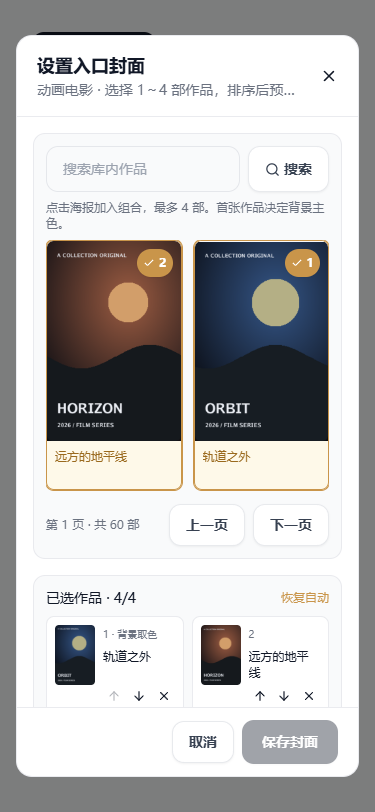
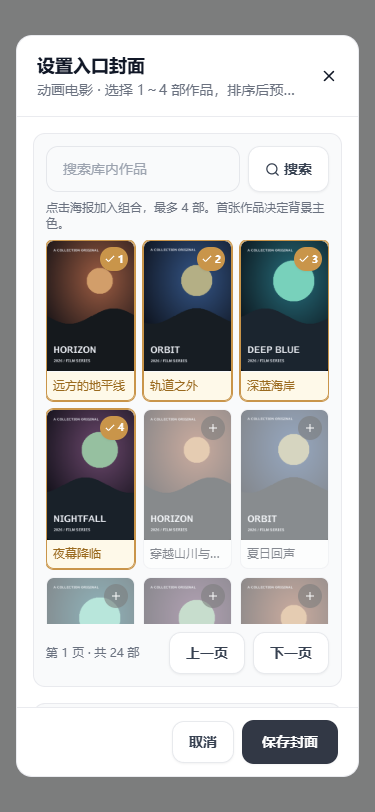
ui: show more posters in library cover picker

diff --git a/web/src/components/LibraryCoverDialog.tsx b/web/src/components/LibraryCoverDialog.tsx
@@ -124,19 +124,19 @@ export function LibraryCoverDialog({ library, onClose }: Props) {
               <button type="submit" className="btn-outline shrink-0 gap-1" disabled={loading}><Search size={15} />搜索</button>
             </form>
             <p className="py-2 text-xs text-[var(--app-muted)]">点击海报加入组合，最多 4 部。首张作品决定背景主色。</p>
-            <div className="max-h-64 min-h-[120px] flex-1 overflow-y-auto md:max-h-none" aria-busy={loading}>
+            <div className="max-h-96 min-h-[120px] flex-1 overflow-y-auto md:max-h-none" aria-busy={loading}>
               {loading ? <p className="p-4 text-sm text-[var(--app-muted)]">正在加载作品…</p> : browseError ? (
                 <div className="p-3 text-sm"><p role="alert">{browseError}</p><button className="btn-outline mt-2" onClick={() => setFilter({ ...filter })}>重试</button></div>
-              ) : candidates.length === 0 ? <p className="p-4 text-sm text-[var(--app-muted)]">没有找到作品。</p> : <div className="grid grid-cols-2 gap-3 sm:grid-cols-4 md:grid-cols-2 lg:grid-cols-3">
+              ) : candidates.length === 0 ? <p className="p-4 text-sm text-[var(--app-muted)]">没有找到作品。</p> : <div className="grid grid-cols-3 gap-2 sm:grid-cols-5 md:grid-cols-3 lg:grid-cols-5">
                 {candidates.map((item) => {
                   const index = selected.findIndex((choice) => choice.id === item.id)
                   const picked = index >= 0
                   return <button key={item.id} type="button" aria-label={item.title} title={item.selection_error || item.title} disabled={disabled || !!item.selection_error || !item.poster_url || (!picked && selected.length >= 4)} aria-pressed={picked} onClick={() => changeSelection(picked ? selected.filter((choice) => choice.id !== item.id) : [...selected, item])} className={`min-w-0 overflow-hidden rounded-lg border text-left transition-colors disabled:opacity-50 ${picked ? 'border-brand-500 bg-[var(--app-brand-soft)] text-[var(--app-brand-text)] ring-1 ring-brand-500' : 'border-[var(--app-border)] bg-[var(--app-panel)] hover:border-brand-500/60'}`}>
                     <div className="relative aspect-[2/3] overflow-hidden bg-[var(--app-panel-soft)]">
                       <CoverPoster item={item} />
-                      {!!item.poster_url && !item.selection_error && <span className={`absolute right-2 top-2 flex h-7 min-w-7 items-center justify-center gap-1 rounded-full px-1.5 text-xs font-semibold shadow-sm ${picked ? 'bg-brand-500 text-white' : 'bg-black/60 text-white'}`} aria-hidden="true">{picked ? <><Check size={12} />{index + 1}</> : <Plus size={14} />}</span>}
+                      {!!item.poster_url && !item.selection_error && <span className={`absolute right-1.5 top-1.5 flex h-6 min-w-6 items-center justify-center gap-0.5 rounded-full px-1 text-[10px] font-semibold shadow-sm ${picked ? 'bg-brand-500 text-white' : 'bg-black/60 text-white'}`} aria-hidden="true">{picked ? <><Check size={12} />{index + 1}</> : <Plus size={12} />}</span>}
                     </div>
-                    <span className="block min-h-12 px-2 py-2 text-xs font-medium leading-4"><span className="line-clamp-2 break-words">{item.title}</span></span>
+                    <span className="block truncate px-1.5 py-1.5 text-xs font-medium leading-4">{item.title}</span>
                   </button>
                 })}
               </div>}

diff --git a/docs/library-cover-design.md b/docs/library-cover-design.md
@@ -31,6 +31,8 @@ Web 的入口缩略图请求 `/api/libraries/{id}/cover/image`，与设置页预
 
 管理员进入「管理媒体库」，展开目标库的操作菜单，点击「设置入口封面」。左侧以海报卡片展示该库的候选作品，保留标题，选中后显示顺序编号。右侧已选区显示海报缩略图、标题及上移、下移和移除按钮；第一个位置明确标注「背景取色」。可以搜索该库的作品，选择 1～4 部，生成实际 PNG 预览后保存。更改选择或顺序会使旧预览失效，重新预览成功才能保存手动组合；预览不修改数据库。点击「恢复自动」并保存，可清空手动配置。
 
+候选网格采用紧凑卡片：宽屏桌面 5 列、手机 3 列，缩小卡片间距和选中编号，并使用单行标题；长标题保留完整按钮名称和悬停提示。手机候选区的滚动高度增至 384 px。按实际组件测量，1280×800 的桌面首屏完整可见作品由 3 部增至 10 部，375×812 的手机由 2 部增至 6 部。最多选择四部和每页 48 部的原有规则保持不变。
+
 候选接口 `/api/libraries/{id}/cover/candidates` 仅管理员可用，复用现有 `BrowseLibrary` 的搜索、分页、合并库和作品分组，再对当前页执行共用的海报解析，不新增媒体来源或扫描。候选卡片、已保存组合及合成图片共同使用现有电影/整剧元数据；剧集卡片显示整剧海报，避免与最终合成的素材不一致。读取已保存组合同时返回海报 URL 和更新时间，重新打开设置时仍可见缩略图。无海报作品明确标注且禁用选择；图片加载失败明确展示错误，不偷偷替换背景图。浏览器通过既有 ImageProxy 请求缩略图，并使用懒加载。
 
 仅在现有 `libraries` 表新增 JSON 文本列 `cover_media_ids`，按顺序存储作品 ID，默认 `[]`；通过现有自动迁移升级，既有库继续使用自动模式。海报仍取自现有影视/剧集元数据，不复制素材或另建图片数据源。剧集选择代表媒体 ID，取图时解析为权威整剧海报，不能重复选择同一剧集或相同海报。
@@ -52,6 +54,7 @@ Web 的入口缩略图请求 `/api/libraries/{id}/cover/image`，与设置页预
 - 配置测试覆盖持久化顺序、恢复自动、已有库迁移、失效/跨库/重复作品、整剧海报与管理权限；预览与相同尺寸的 Web、Emby 已保存图片逐字节一致。
 - 候选接口测试覆盖管理员权限、分页校验、搜索空结果及明确标记无海报作品；服务测试验证候选与已选卡片使用相同的整剧海报，且顺序及海报更新时间正确返回。
 - 实际组件完成离线浏览器验证：海报可见、最多选四部、无海报不可选、跨页保留选择、排序后旧预览失效、预览成功后保存、重新打开恢复缩略图及排序、素材失败禁止保存，以及 1280×800 桌面/375×812 窄屏和深浅色布局。
+- 紧凑网格额外核对 320、640、768、900 px 宽度，候选区均无横向溢出；四部限制、选中编号、移除后预览失效与深色主题仍正常。
 - 1～4 张、冷暖配色和长名称均使用实际渲染代码作视觉核对；不是生产媒体库截图。
 - 本次不调用 115/OpenList，不做真实云盘、电视设备或生产环境验证；不新增定时任务、上传接口，也不部署线上。本机没有 Docker，运行时字体许可文件的容器复制尚未构建验证。
 
